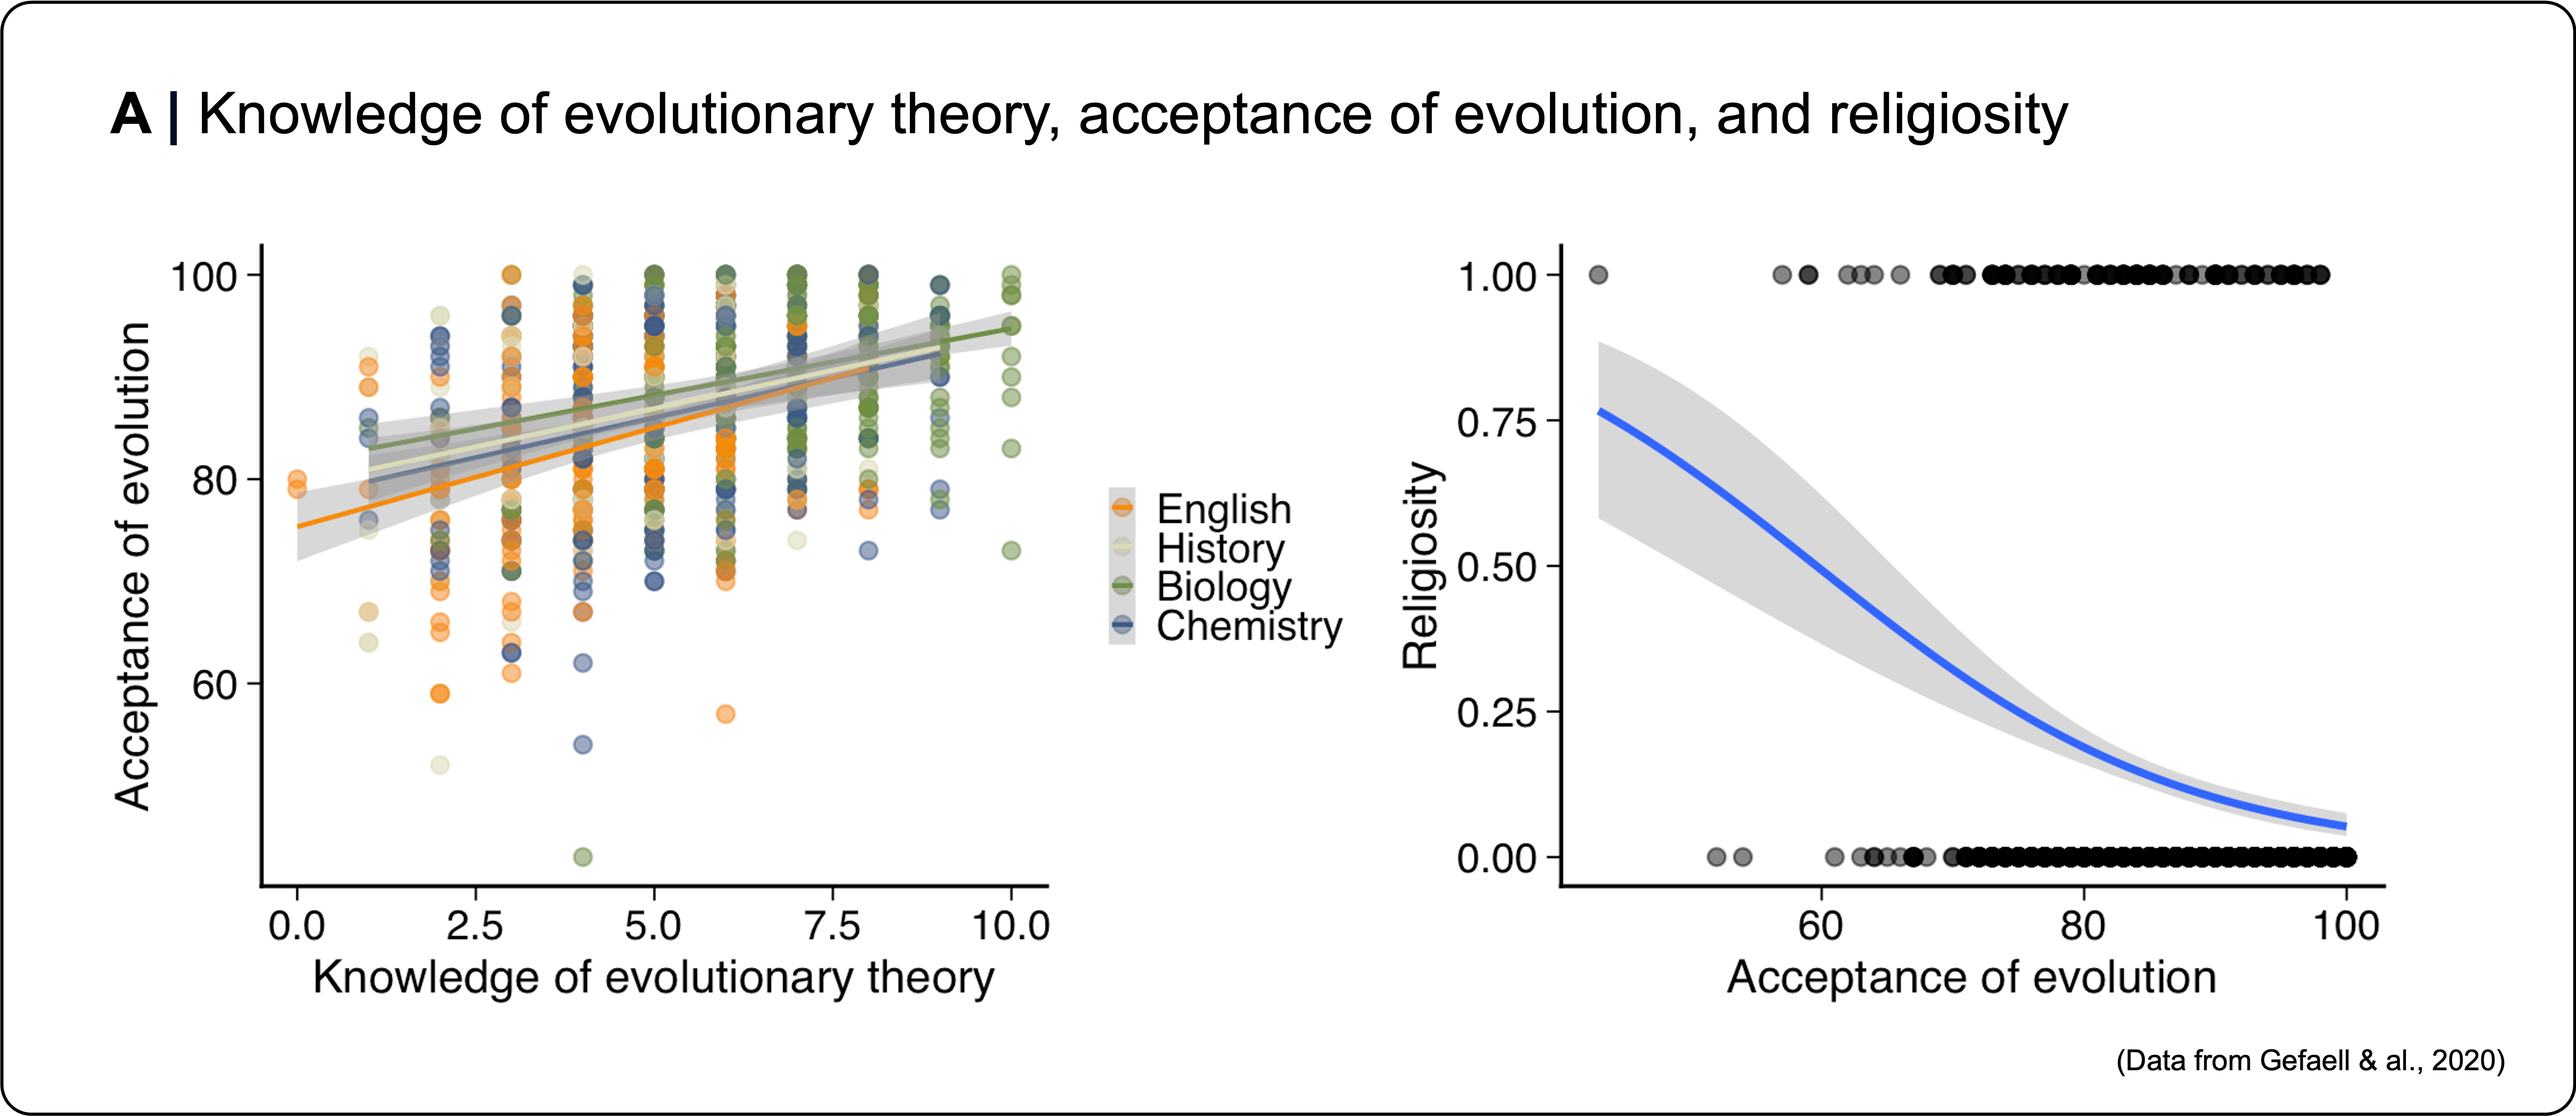
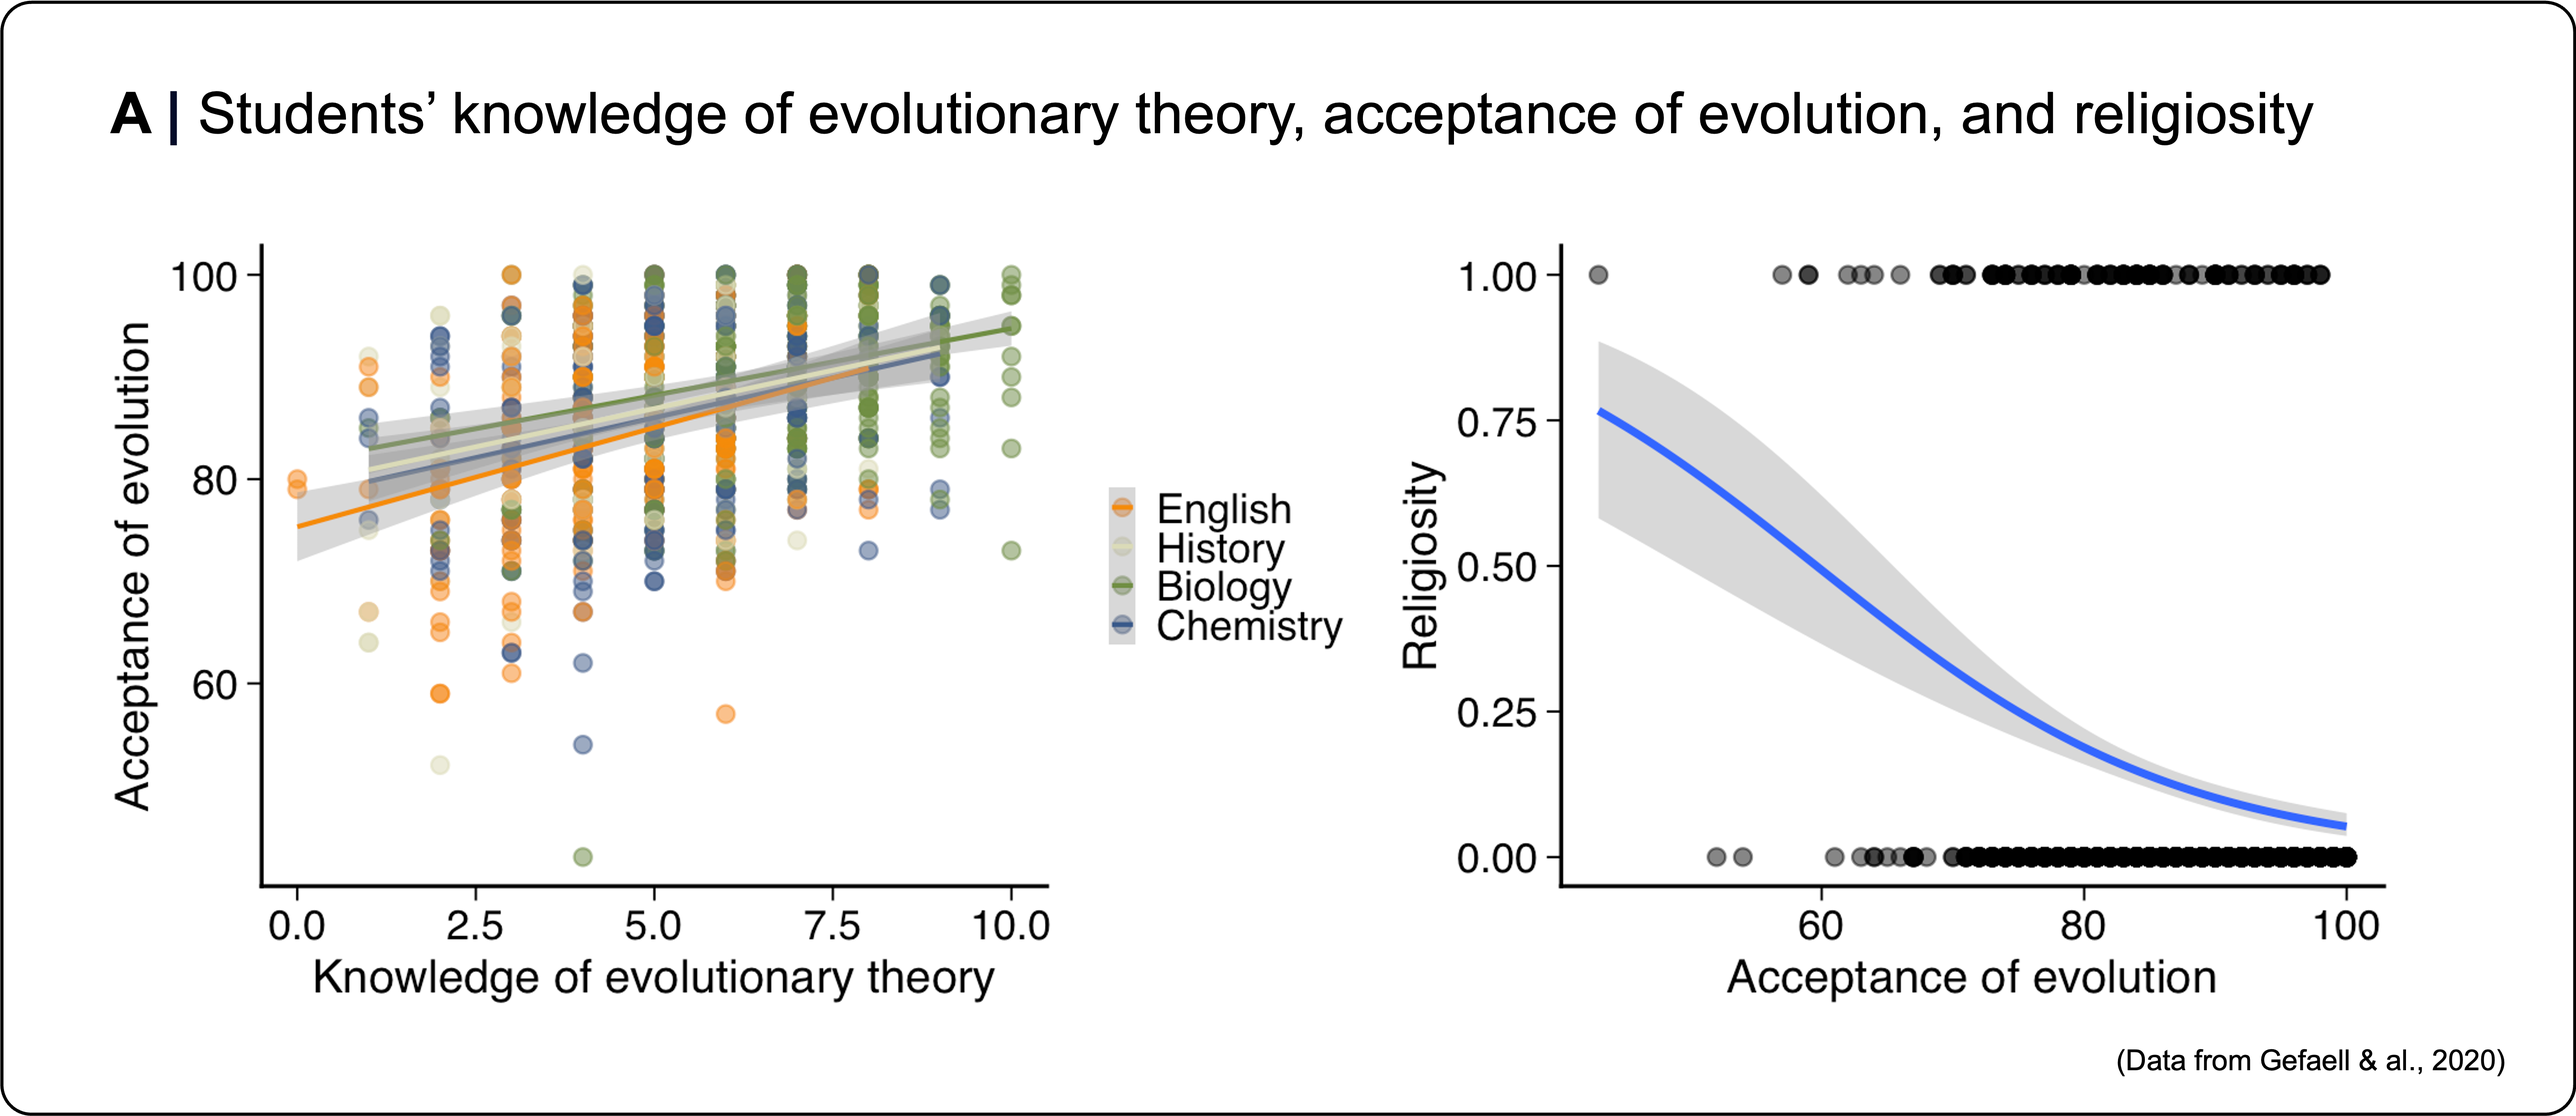
Update Science education figure

Changed region(s): [[0.0623, 0.0928, 0.904, 0.1238]]

diff --git a/research.html b/research.html
@@ -15,5 +15,5 @@
 <figure class="research-figure"><a href="assets/2026/10/research-evolutionary-biology.png" aria-label="Open the full-size figure about sexual and ecological selection"><img src="assets/2026/10/research-evolutionary-biology.png" alt="Figures illustrating sexual selection and geographic variation associated with ecological selection in Littorina saxatilis" loading="lazy"></a></figure>
 <h2><strong>Science education</strong></h2>
 <p>Finally, from time to time I participate in research on science education, also in close collaboration with Emilio Rolán-Alvarez. Currently, for example, we’re studying whether university students’ trust in science is based on a fair portrayal of the nature of science. Research in science education does not only contribute to designing more effective scientific literacy policies, but it can also inform us about people’s folk philosophy of science.</p>
-<figure class="research-figure"><a href="assets/2026/10/research-science-education.png" aria-label="Open the full-size figure about knowledge and acceptance of evolutionary theory"><img src="assets/2026/10/research-science-education.png" alt="Graphs showing how knowledge of evolutionary theory relates to acceptance of evolution, and how acceptance relates to religiosity" loading="lazy"></a></figure>
+<figure class="research-figure"><a href="assets/2026/10/research-science-education.png?v=2" aria-label="Open the full-size figure about students’ knowledge and acceptance of evolutionary theory"><img src="assets/2026/10/research-science-education.png?v=2" alt="Graphs showing how students’ knowledge of evolutionary theory relates to acceptance of evolution, and how acceptance relates to religiosity" loading="lazy"></a></figure>
 </div></main><footer class="site-footer"><span>Biology · Philosophy · Life</span></footer></body></html>
